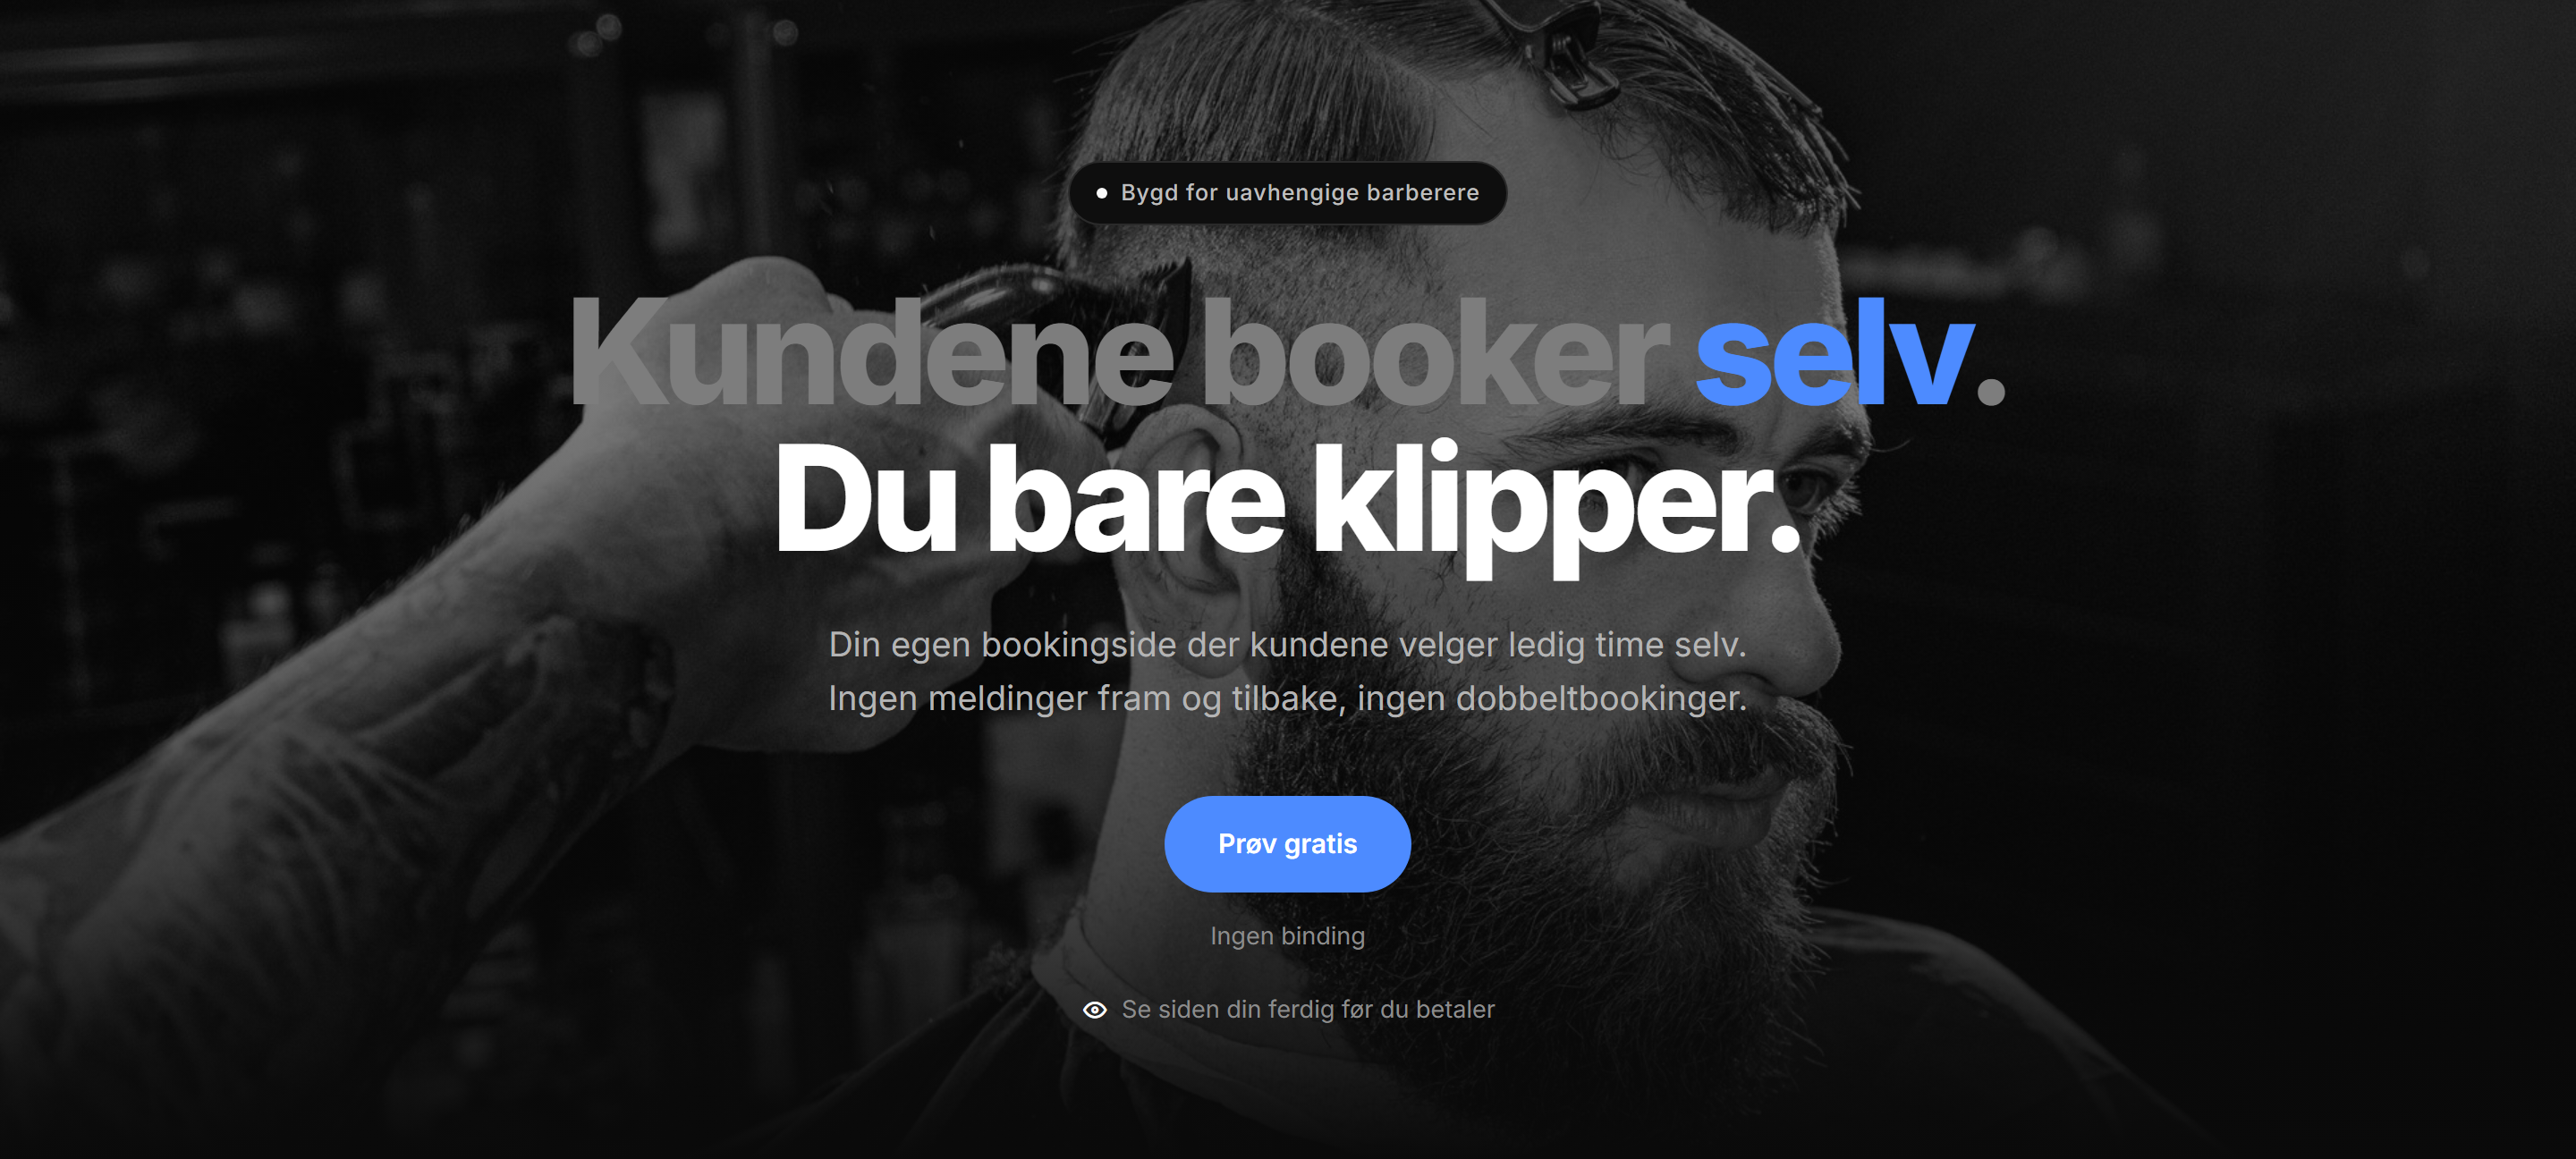
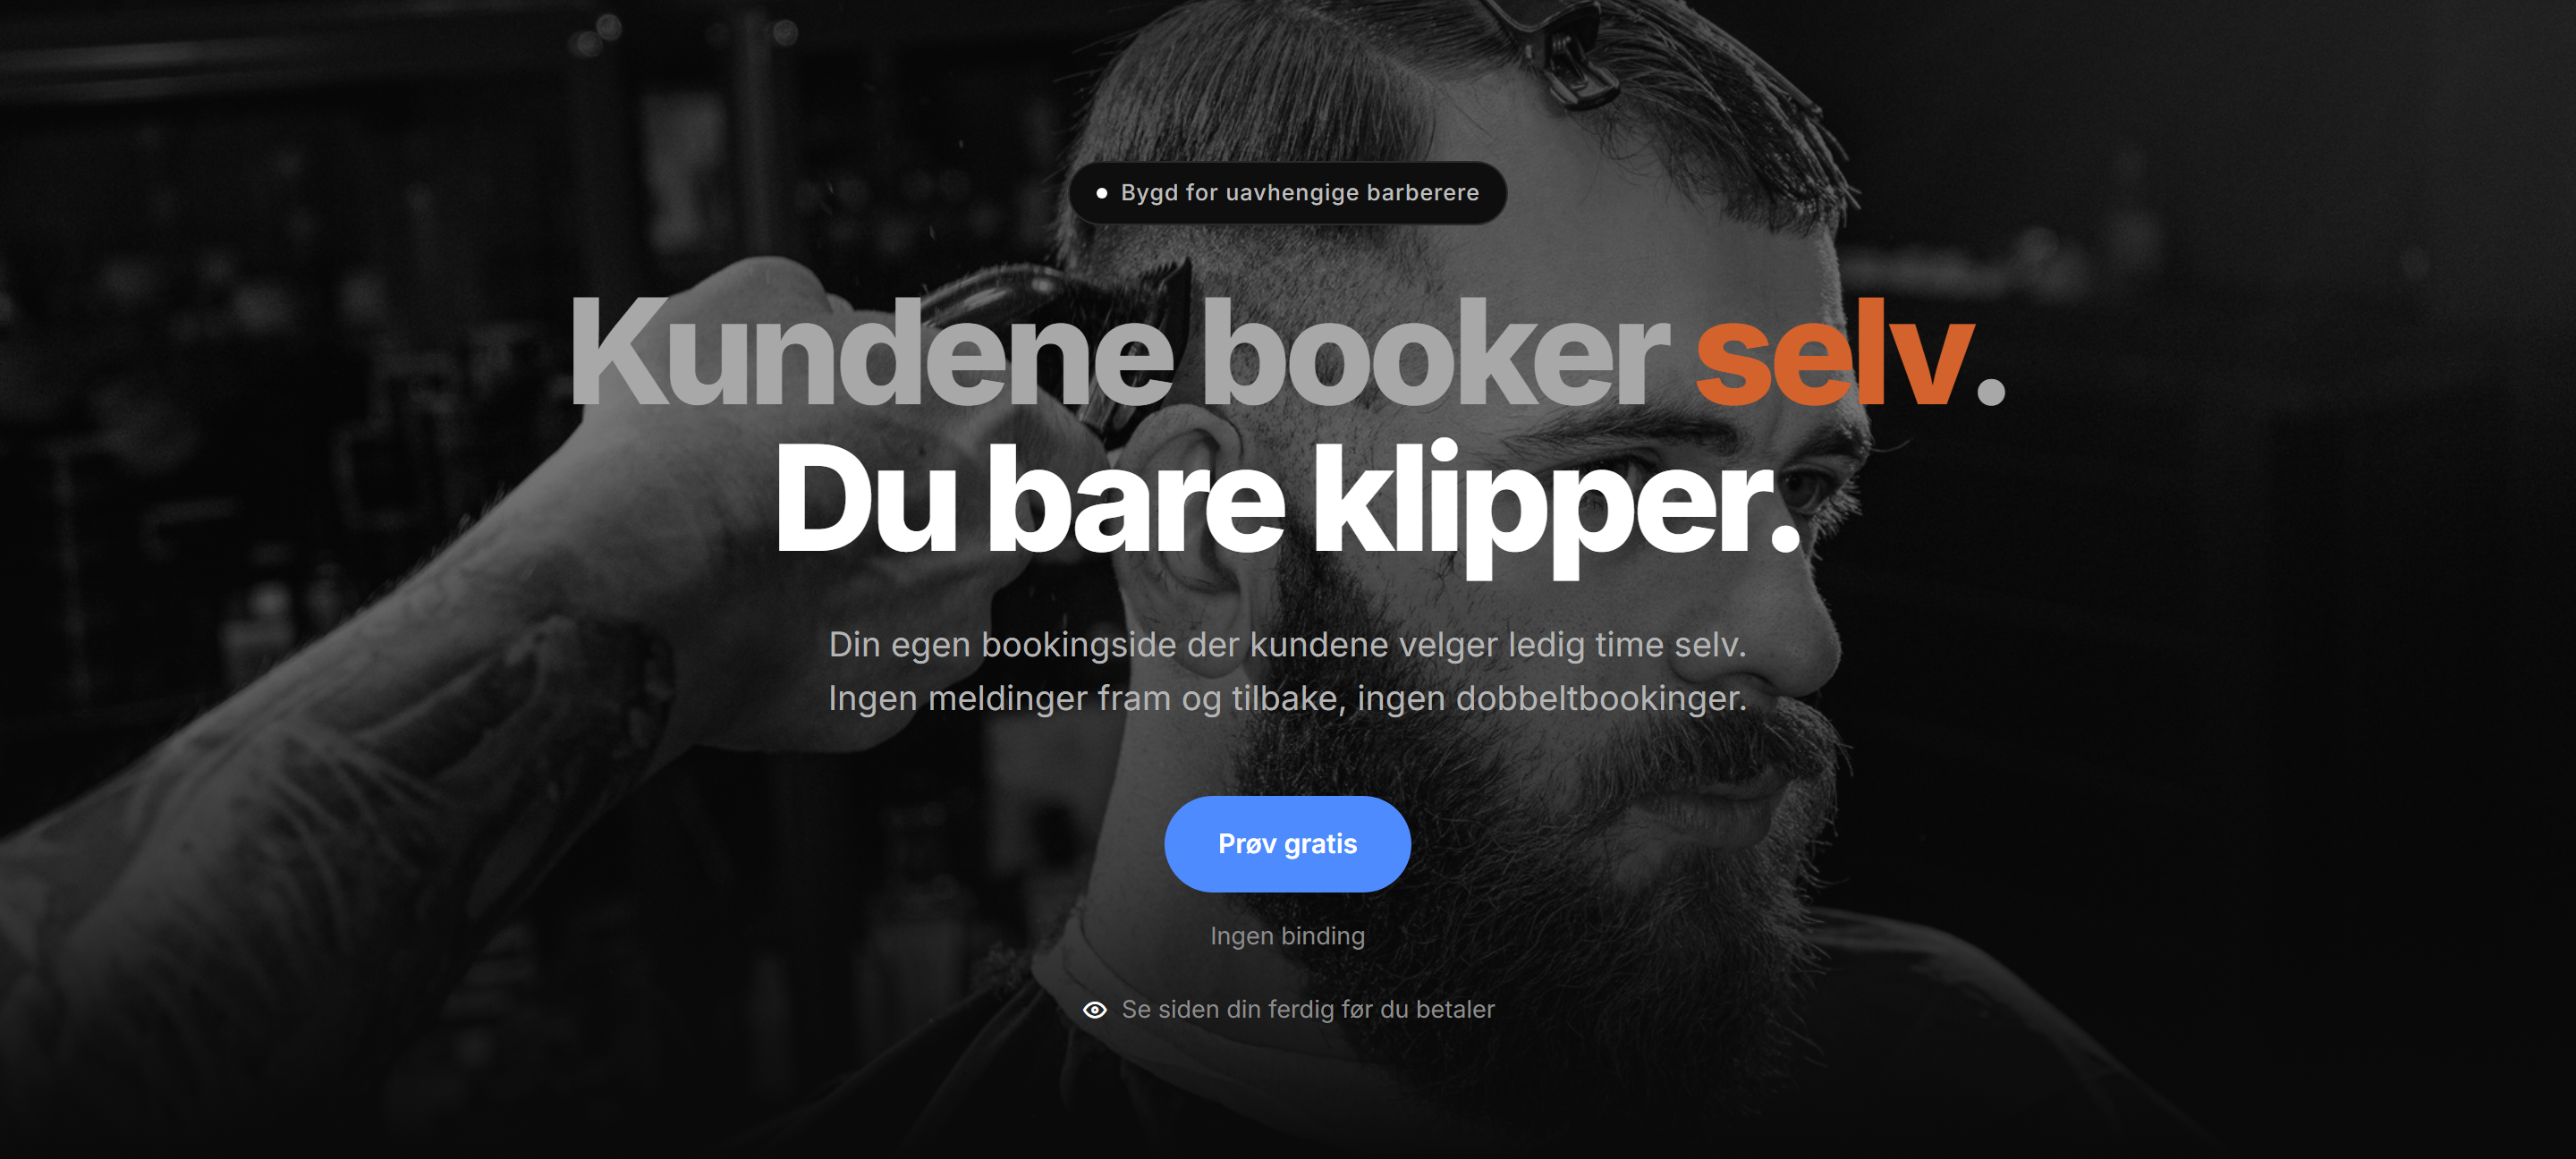
Hero: lysere gra pa Kundene booker, burnt orange pa selv

Changed region(s): [[0.2188, 0.2469, 0.7812, 0.3704]]

diff --git a/no/index.html b/no/index.html
@@ -50,8 +50,8 @@ body{background:#0a0a0a;font-family:'Inter',-apple-system,system-ui,sans-serif;c
 @keyframes pulse{0%,100%{opacity:1}50%{opacity:.3}}
 .hero h1{font-size:clamp(44px,8vw,82px);font-weight:800;line-height:1.0;letter-spacing:-.045em}
 .hero h1 .accent{color:#fff;position:relative;display:inline-block}
-.hero h1 .line1{color:#7d7d7d}
-.hero h1 .hl-blue{color:#4d8bff}
+.hero h1 .line1{color:#a8a8a8}
+.hero h1 .hl-blue{color:#d4622c}
 .hero-sub{color:#b4b4b4;font-size:clamp(16px,2.2vw,19px);line-height:1.6;max-width:560px;margin:26px auto 0}
 .hero-btns{display:flex;gap:12px;justify-content:center;flex-wrap:wrap;margin-top:38px}
 .btn{display:inline-flex;align-items:center;gap:9px;font-size:15px;font-weight:600;padding:15px 30px;border-radius:99px;text-decoration:none;transition:all .2s;cursor:pointer;border:0}